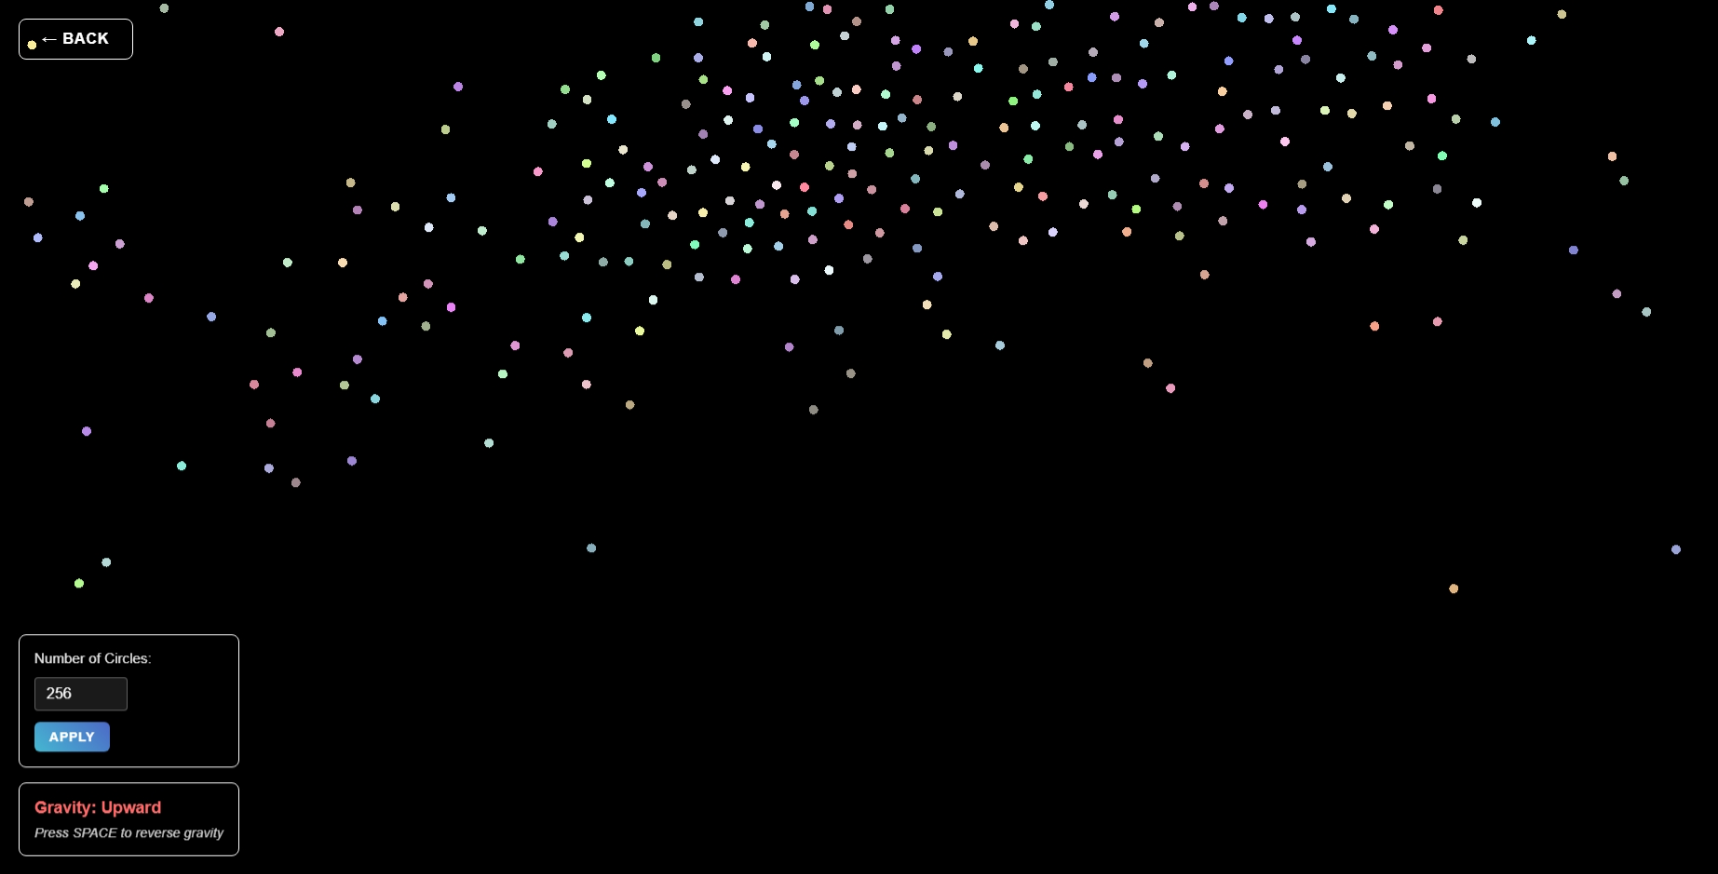
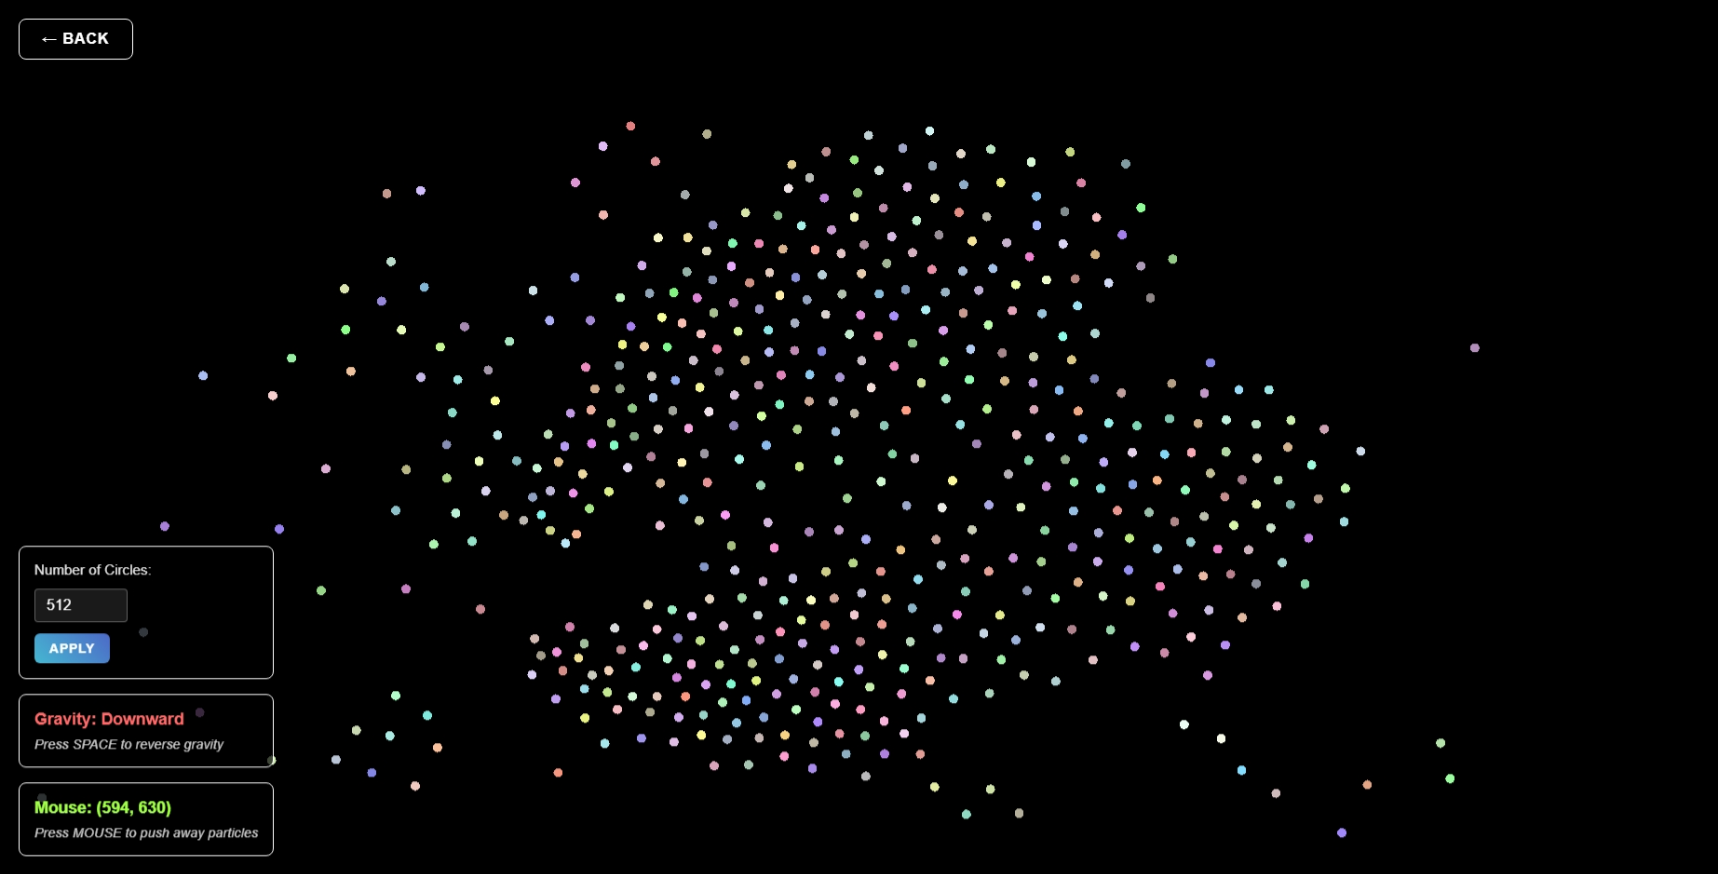
Update particles

diff --git a/particles/particles.js b/particles/particles.js
@@ -29,19 +29,61 @@ const CIRCLE_SPAWN_RADIUS = 4 * CIRCLE_RADIUS; // Minimum distance between circl
 const SPEED = 60.0; // Movement speed in pixels per second
 let circles = []; // Array to store circle data (position, velocity, acceleration, color)
 
-// Gravity state
-let isGravityReversed = false;
+// Interaction state
+let mousePosition = { x: 0, y: 0 }; // Current mouse position
+let isMouseDown = false;
+let gravityDirection = 0.0; // 0 for none, -1 for downward, 1 for upward
 
-// Update gravity status display
-function updateGravityDisplay() {
+// Update gravity state
+function updateGravity() {
+    if (gravityDirection == 0) {
+        gravityDirection = -1.0;
+    } else if (gravityDirection == -1) {
+        gravityDirection = 1.0;
+    } else {
+        gravityDirection = 0.0;
+    }
+    updateUniformsBuffer();
+
     const gravityStatus = document.getElementById('gravity-status');
     if (gravityStatus) {
-        if (isGravityReversed) {
+        // Remove all gravity classes
+        gravityStatus.classList.remove('none', 'upward', 'downward');
+        
+        if (gravityDirection == 0) {
+            gravityStatus.textContent = 'Gravity: None';
+            gravityStatus.classList.add('none');
+        } else if (gravityDirection == 1) {
             gravityStatus.textContent = 'Gravity: Upward';
-            gravityStatus.classList.add('reversed');
+            gravityStatus.classList.add('upward');
         } else {
             gravityStatus.textContent = 'Gravity: Downward';
-            gravityStatus.classList.remove('reversed');
+            gravityStatus.classList.add('downward');
+        }
+    }
+}
+
+// Update mouse position and button state
+function updateMousePosition(event, overrideDown = null) {
+    if (overrideDown !== null) {
+        isMouseDown = overrideDown;
+        return;
+    }
+
+    const rect = htmlState.canvas.getBoundingClientRect();
+    mousePosition.x = event.clientX - rect.left;
+    mousePosition.y = event.clientY - rect.top;
+    isMouseDown = event.buttons > 0;
+    updateUniformsBuffer();
+    
+    const mouseStatus = document.getElementById('mouse-status');
+    if (mouseStatus) {
+        if (isMouseDown) {
+            mouseStatus.textContent = `Mouse: (${Math.round(mousePosition.x)}, ${Math.round(mousePosition.y)})`;
+            mouseStatus.classList.add('active');
+        } else {
+            mouseStatus.textContent = 'Mouse: None';
+            mouseStatus.classList.remove('active');
         }
     }
 }
@@ -61,13 +103,13 @@ function resizeCanvas() {
         updateCircleBuffer();
     }
 }
-
+  
 // Create uniforms buffer for screen resolution
 function createUniformsBuffer() {
     try {
         uniformsBuffer = gpuState.device.createBuffer({
             label: 'Uniform buffer',
-            size: 4 * 4, // resolution (width, height) (2 floats) + is_gravity_reversed (1 int) + padding (1 float)
+            size: 8 * 4, // resolution (width, height) (2 floats) + mouse position (2 floats) + is_mouse_down (1 int) + gravity direction (1 float) + padding (2 float)
             usage: GPUBufferUsage.UNIFORM | GPUBufferUsage.COPY_DST
         });
         
@@ -85,7 +127,11 @@ function updateUniformsBuffer() {
         const uniformData = new Float32Array([
             htmlState.canvas.width, 
             htmlState.canvas.height,
-            isGravityReversed ? 1.0 : 0.0,
+            mousePosition.x,
+            mousePosition.y,
+            isMouseDown ? 1.0 : 0.0,
+            gravityDirection,
+            0.0,
             0.0
         ]);
         gpuState.device.queue.writeBuffer(uniformsBuffer, 0, uniformData);
@@ -595,13 +641,19 @@ document.addEventListener('DOMContentLoaded', () => {
     // Add resize event listener
     window.addEventListener('resize', resizeCanvas);
 
+    // Add mouse event listeners
+    htmlState.canvas.addEventListener('mousemove', updateMousePosition);
+    htmlState.canvas.addEventListener('mousedown', updateMousePosition);
+    htmlState.canvas.addEventListener('mouseup', updateMousePosition);
+    htmlState.canvas.addEventListener('mouseleave', (event) => {
+        updateMousePosition(event, false);
+    });
+
     // Add spacebar event listener for gravity reversal
     document.addEventListener('keydown', (event) => {
         if (event.code === 'Space') {
             event.preventDefault();
-            isGravityReversed = !isGravityReversed;
-            updateUniformsBuffer();
-            updateGravityDisplay();
+            updateGravity();
         }
     });
 
@@ -627,9 +679,6 @@ document.addEventListener('DOMContentLoaded', () => {
 
     // Initialize canvas size
     resizeCanvas();
-    
-    // Initialize gravity display
-    updateGravityDisplay();
     
     // Initialize WebGPU
     init();

diff --git a/style.css b/style.css
@@ -256,16 +256,52 @@ footer p {
 #gravity-status {
     font-size: 1.1rem;
     font-weight: 600;
-    color: #45b7d1;
+    color: #aaaaaa;
     margin-bottom: 8px;
     transition: color 0.3s ease;
 }
 
-#gravity-status.reversed {
+#gravity-status.none {
+    color: #aaaaaa;
+}
+
+#gravity-status.upward {
+    color: #a2ff4a;
+}
+
+#gravity-status.downward {
     color: #ff6b6b;
 }
 
 .gravity-instruction {
+    font-size: 0.9rem;
+    color: rgba(255, 255, 255, 0.8);
+    font-style: italic;
+}
+
+.mouse-info {
+    text-align: left;
+    background: rgba(0, 0, 0, 0.7);
+    backdrop-filter: blur(8px);
+    border: solid 1px white;
+    border-radius: 8px;
+    padding: 16px;
+    font-family: Arial, sans-serif;
+}
+
+#mouse-status {
+    font-size: 1.1rem;
+    font-weight: 600;
+    color: #aaaaaa;
+    margin-bottom: 8px;
+    transition: color 0.3s ease;
+}
+
+#mouse-status.active {
+    color: #a2ff4a;
+}
+
+.mouse-instruction {
     font-size: 0.9rem;
     color: rgba(255, 255, 255, 0.8);
     font-style: italic;

diff --git a/particles/index.html b/particles/index.html
@@ -17,8 +17,12 @@
             <button id="apply-circles" class="apply-button">Apply</button>
         </div>
         <div class="gravity-info">
-            <div id="gravity-status">Gravity: Downward</div>
+            <div id="gravity-status">Gravity: None</div>
             <div class="gravity-instruction">Press SPACE to reverse gravity</div>
+        </div>
+        <div class="mouse-info">
+            <div id="mouse-status">Mouse: None</div>
+            <div class="mouse-instruction">Press MOUSE to push away particles</div>
         </div>
     </div>
     <canvas id="canvas"></canvas>

diff --git a/README.md b/README.md
@@ -114,28 +114,28 @@ let uniformsBuffer; // The uniforms buffer for screen resolution
 let bindGroup; // The bind group for passing uniforms to the shader
 
 // Resize the canvas and update buffers
-function resizeCanvas()
+function resizeCanvas();
 
 // Create uniforms buffer for screen resolution
-function createUniformsBuffer()
+function createUniformsBuffer();
 
 // Update uniforms buffer with current canvas resolution
-function updateUniformsBuffer()
+function updateUniformsBuffer();
 
 // Create vertex buffer
-function createVertexBuffer()
+function createVertexBuffer();
 
 // Update vertex buffer with current canvas resolution
-function updateVertexBuffer()
+function updateVertexBuffer();
 
 // Create bind group for render pipeline
-function createBindGroup()
+function createBindGroup();
 
 // Create render pipeline for triangle rendering
-async function createRenderPipeline()
+async function createRenderPipeline();
 
 // Run render shader to draw the triangle
-function runRenderShader()
+function runRenderShader();
 
 // Update function to render the triangle
 function update() {
@@ -447,55 +447,60 @@ const SPEED = 60.0; // Movement speed in pixels per second
 let circles = []; // Array to store circle data (position, color, velocity)
 
 // Gravity state
-let isGravityReversed = false;
+let mousePosition = { x: 0, y: 0 }; // Current mouse position
+let isMouseDown = false;
+let gravityDirection = 0.0; // 0 for none, -1 for downward, 1 for upward
 
-// Update gravity status display
-function updateGravityDisplay()
+// Update gravity state
+function updateGravity();
+
+// Update mouse position and button state
+function updateMousePosition(event, overrideDown = null);
 
 // Resize the canvas and update buffers
-function resizeCanvas()
+function resizeCanvas();
 
 // Create uniforms buffer for screen resolution
-function createUniformsBuffer()
+function createUniformsBuffer();
 
 // Update uniforms buffer with current canvas resolution
-function updateUniformsBuffer()
+function updateUniformsBuffer();
 
 // Create vertex buffer for circle geometry
-function createVertexBuffer()
+function createVertexBuffer();
 
 // Generate random circles
-function generateCircles()
+function generateCircles();
 
 // Create circle buffer for circle data
-function createCircleBuffer()
+function createCircleBuffer();
 
 // Update circle buffer with current circle data
-function updateCircleBuffer()
+function updateCircleBuffer();
 
 // Create time buffer for delta time
-function createTimeBuffer()
+function createTimeBuffer();
 
 // Update time buffer with delta time
-function updateTimeBuffer(deltaTime)
+function updateTimeBuffer(deltaTime);
 
 // Create render pipeline for particle rendering
-async function createRenderPipeline()
+async function createRenderPipeline();
 
 // Create compute pipeline for particle movement
-async function createComputePipeline()
+async function createComputePipeline();
 
 // Create bind groups for render and compute pipelines
-function createBindGroups()
+function createBindGroups();
 
 // Run render shader to draw particles
-function runRenderShader()
+function runRenderShader();
 
 // Run compute shader to update particle positions
-function runComputeShader(deltaTime)
+function runComputeShader(deltaTime);
 
 // Restart simulation with new number of circles
-async function restartSimulation(newNumCircles)
+async function restartSimulation(newNumCircles);
 
 // Update function to render the circles
 let lastTime = 0;
@@ -727,8 +732,10 @@ For the most fun part, we are going to look at the compute shader that simulates
 ```wgsl
 struct Uniforms {
     resolution: vec2<f32>,
-    is_gravity_reversed: u32,
-    padding: u32,
+    mouse_position: vec2<f32>,
+    is_mouse_down: u32,
+    gravity_direction: f32,
+    padding: vec2<f32>,
 }
 
 struct Circle {
@@ -744,13 +751,7 @@ struct Circle {
 @group(0) @binding(1) var<storage, read_write> circles: array<Circle>;
 @group(0) @binding(2) var<uniform> delta_time: f32;
 
-const CIRCLE_RADIUS: f32 = 5.0;
-const INTER_EPISILON: f32 = 100.0;
-const INTER_SIGMA: f32 = CIRCLE_RADIUS * 8;
-const MAX_SPEED: f32 = 1000.0;
-const DAMPING: f32 = 0.999;
-const DAMP_FREE_SPEED: f32 = 100.0;
-const GRAVITY: f32 = 9.81 * 1000.0;
+// ...
 
 @compute @workgroup_size(128)
 fn main(@builtin(global_invocation_id) global_id: vec3<u32>) {
@@ -801,6 +802,22 @@ You may have noticed already that in the page there are two panels to control th
 We can make real-time changes to our simulation by either creating new buffers or updating existing ones. For example when we change the number of circles, we can simply call the `restartSimulation` function to create a new circle buffer with the new number of circles and update the render pipeline to use the new buffer.
 
 ```javascript
+    // Add mouse event listeners
+    htmlState.canvas.addEventListener('mousemove', updateMousePosition);
+    htmlState.canvas.addEventListener('mousedown', updateMousePosition);
+    htmlState.canvas.addEventListener('mouseup', updateMousePosition);
+    htmlState.canvas.addEventListener('mouseleave', (event) => {
+        isMouseDown = false;
+    });
+
+    // Add spacebar event listener for gravity reversal
+    document.addEventListener('keydown', (event) => {
+        if (event.code === 'Space') {
+            event.preventDefault();
+            updateGravity();
+        }
+    });
+
     // Add event listeners for circle controls
     const numCirclesInput = document.getElementById('num-circles-input');
     const applyButton = document.getElementById('apply-circles');
